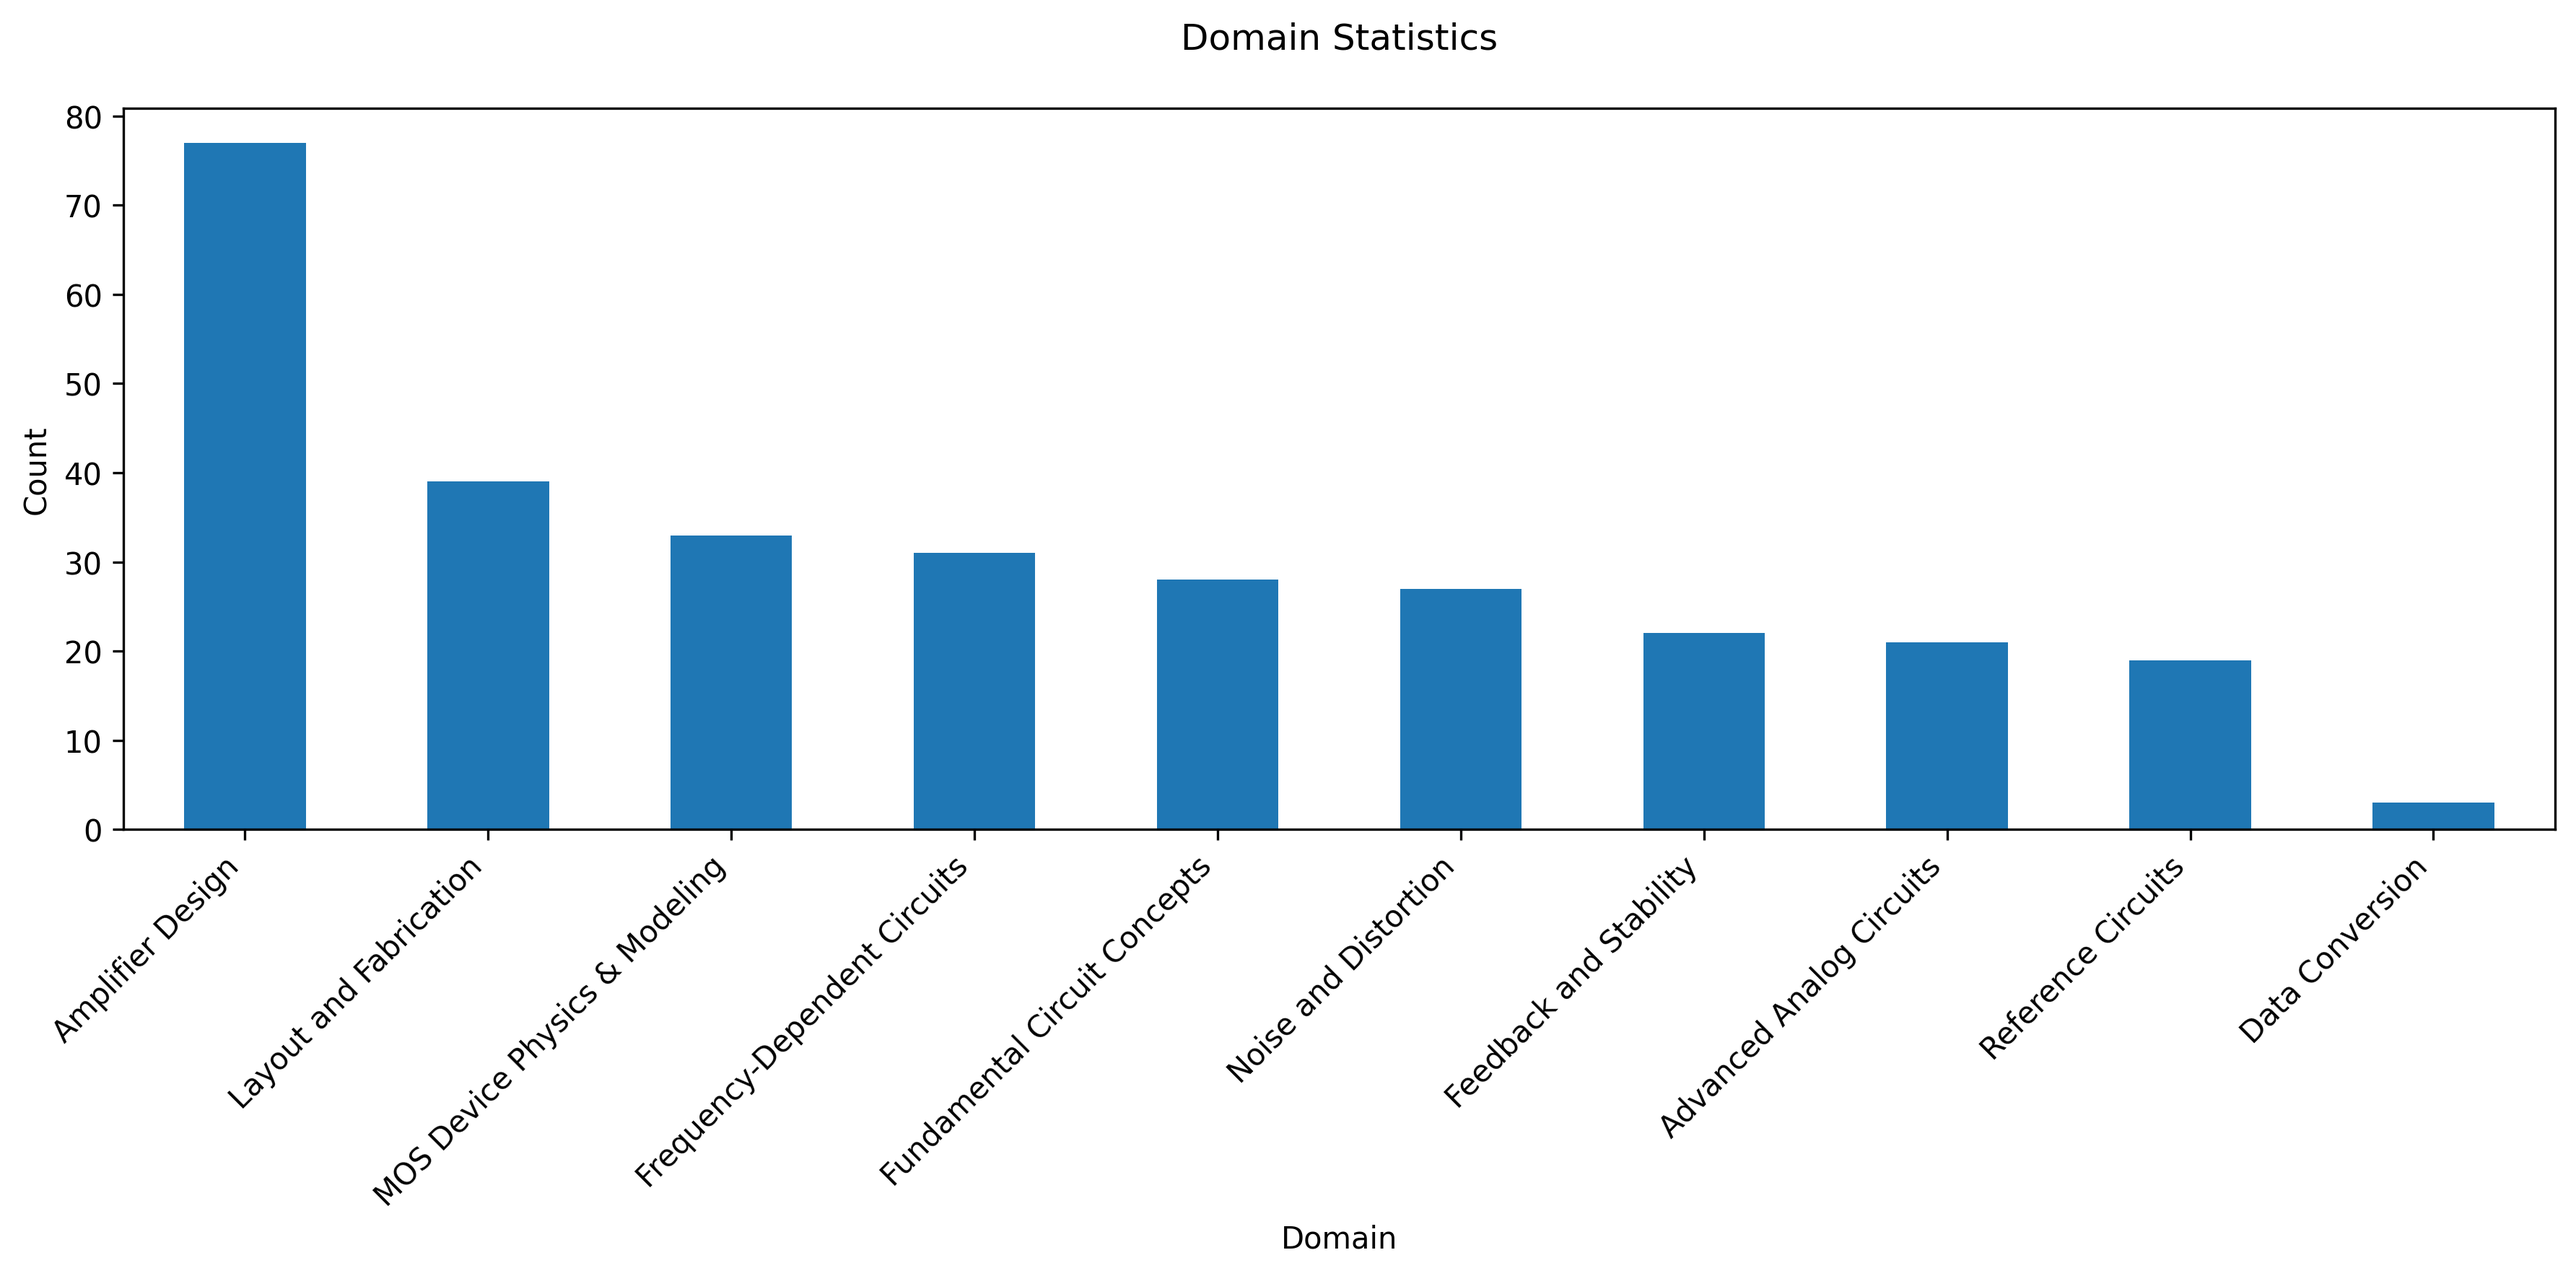
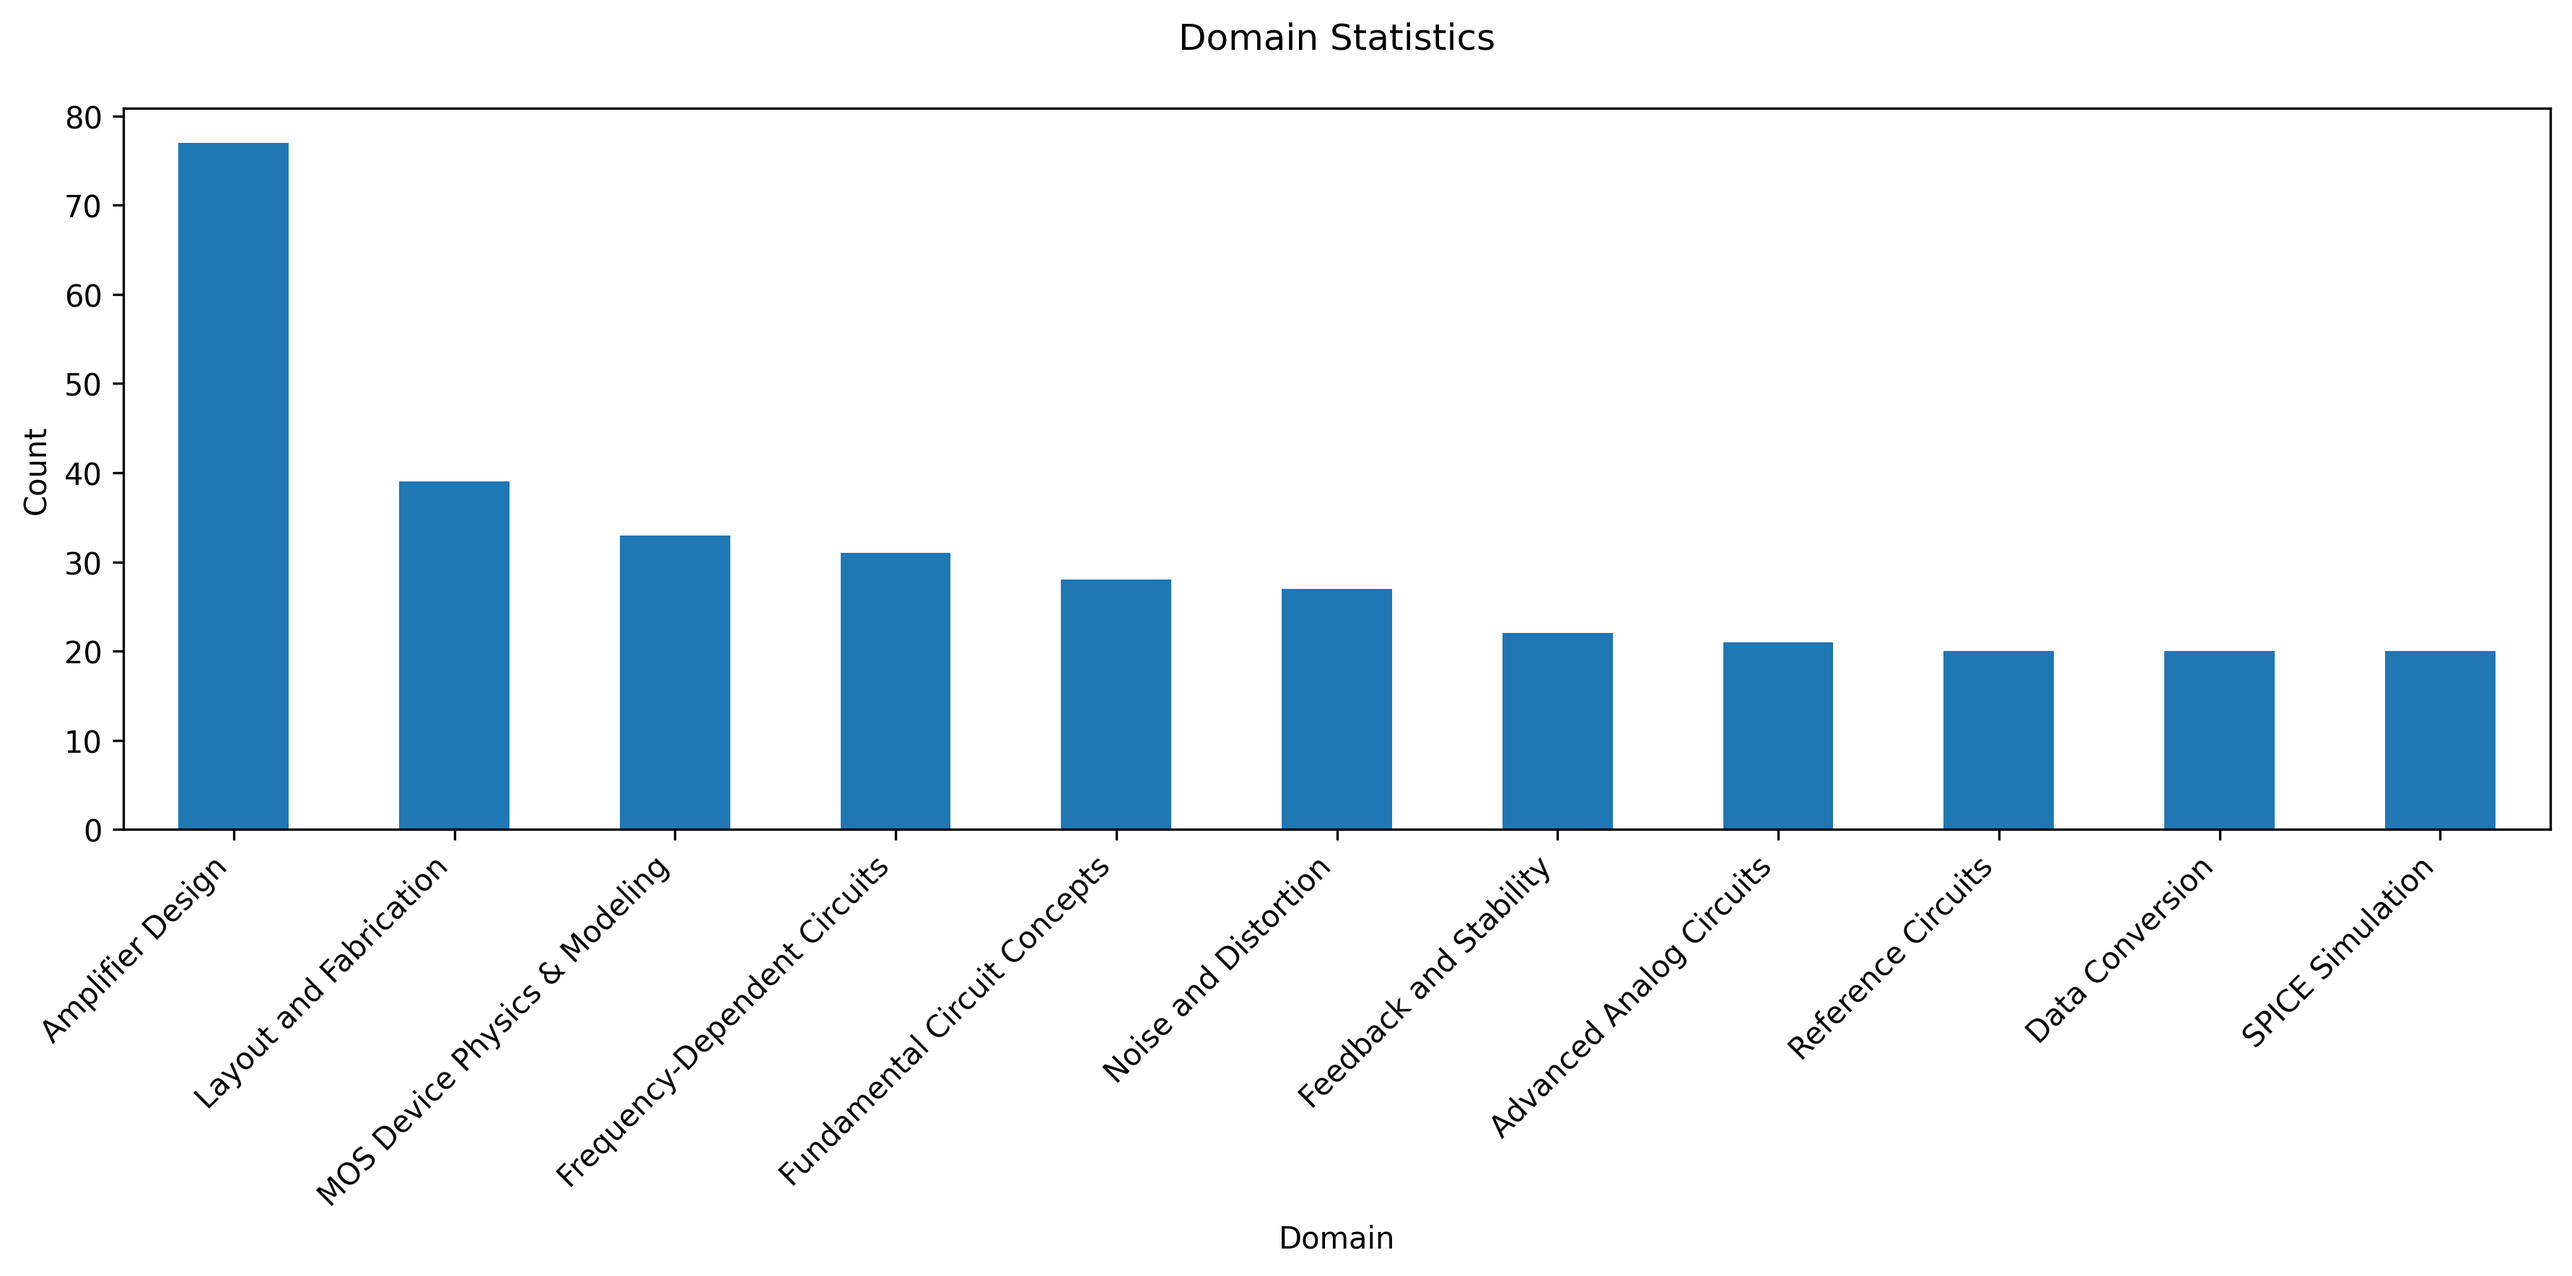
feat: 更新網域統計腳本，新增難度數據集處理及圖表輸出

diff --git a/domain_statistics.py b/domain_statistics.py
@@ -8,13 +8,16 @@ import matplotlib.pyplot as plt
 
 def main():
     # 讀取parquet檔案
-    df = pd.read_csv("data/test-000000-000001.csv")
+    df_normal = pd.read_csv("QA_Data/test-000000-000001.csv")
+    df_difficult = pd.read_csv("QA_Data/difficult-000000-000001.csv")
     # 統計各個domain的題目數量
-    domain_counts = df["Domain"].value_counts()
-    print(domain_counts)
-    # 畫圖
+    domain_counts_normal = df_normal["Domain"].value_counts()
+    domain_counts_difficult = df_difficult["Domain"].value_counts()
+    print(domain_counts_normal)
+    print(domain_counts_difficult)
+    # 畫圖normal
     plt.figure(figsize=(12, 6))
-    ax = domain_counts.plot(kind="bar")
+    ax = domain_counts_normal.plot(kind="bar")
     plt.title("Domain Statistics", pad=20)
     plt.xlabel("Domain")
     plt.ylabel("Count")
@@ -25,7 +28,24 @@ def main():
     # 調整圖表邊距
     plt.tight_layout()
 
-    plt.savefig("assets/domain_statistics.png", bbox_inches='tight', dpi=300)
+    plt.savefig("assets/normal_domain_statistics.png",
+                bbox_inches='tight', dpi=300)
+
+    # 畫圖difficult
+    plt.figure(figsize=(12, 6))
+    ax = domain_counts_difficult.plot(kind="bar")
+    plt.title("Domain Statistics", pad=20)
+    plt.xlabel("Domain")
+    plt.ylabel("Count")
+
+    # 旋轉x軸標籤並調整對齊方式
+    plt.xticks(rotation=45, ha='right')
+
+    # 調整圖表邊距
+    plt.tight_layout()
+
+    plt.savefig("assets/difficult_domain_statistics.png",
+                bbox_inches='tight', dpi=300)
 
 
 if __name__ == "__main__":
